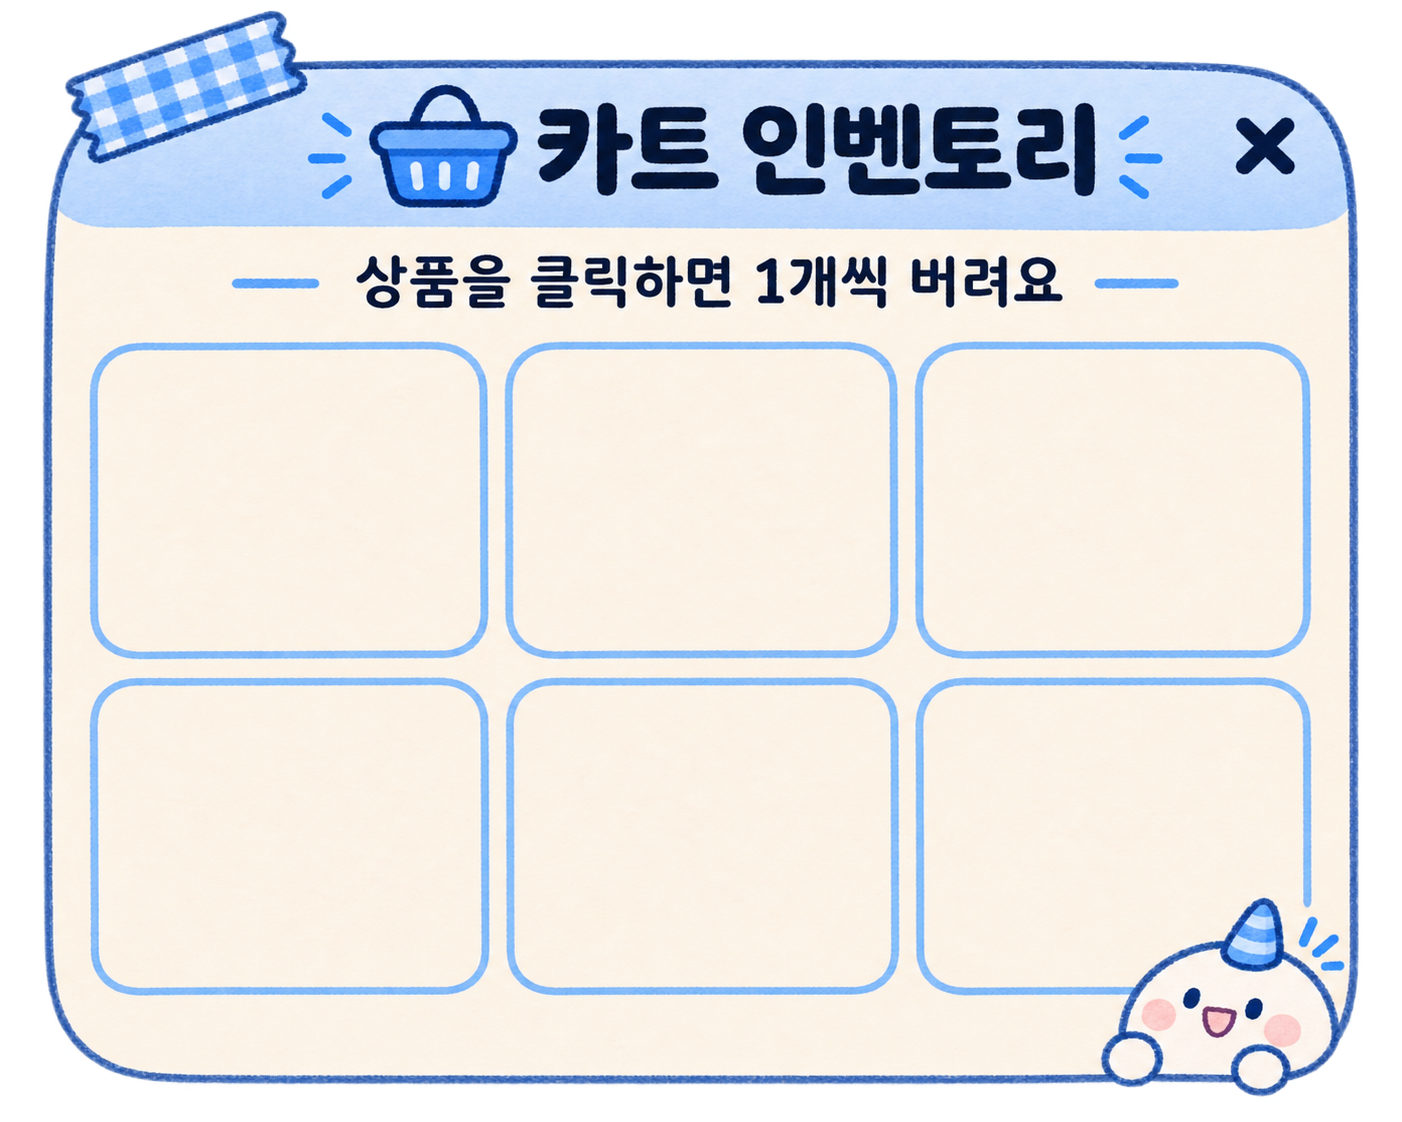
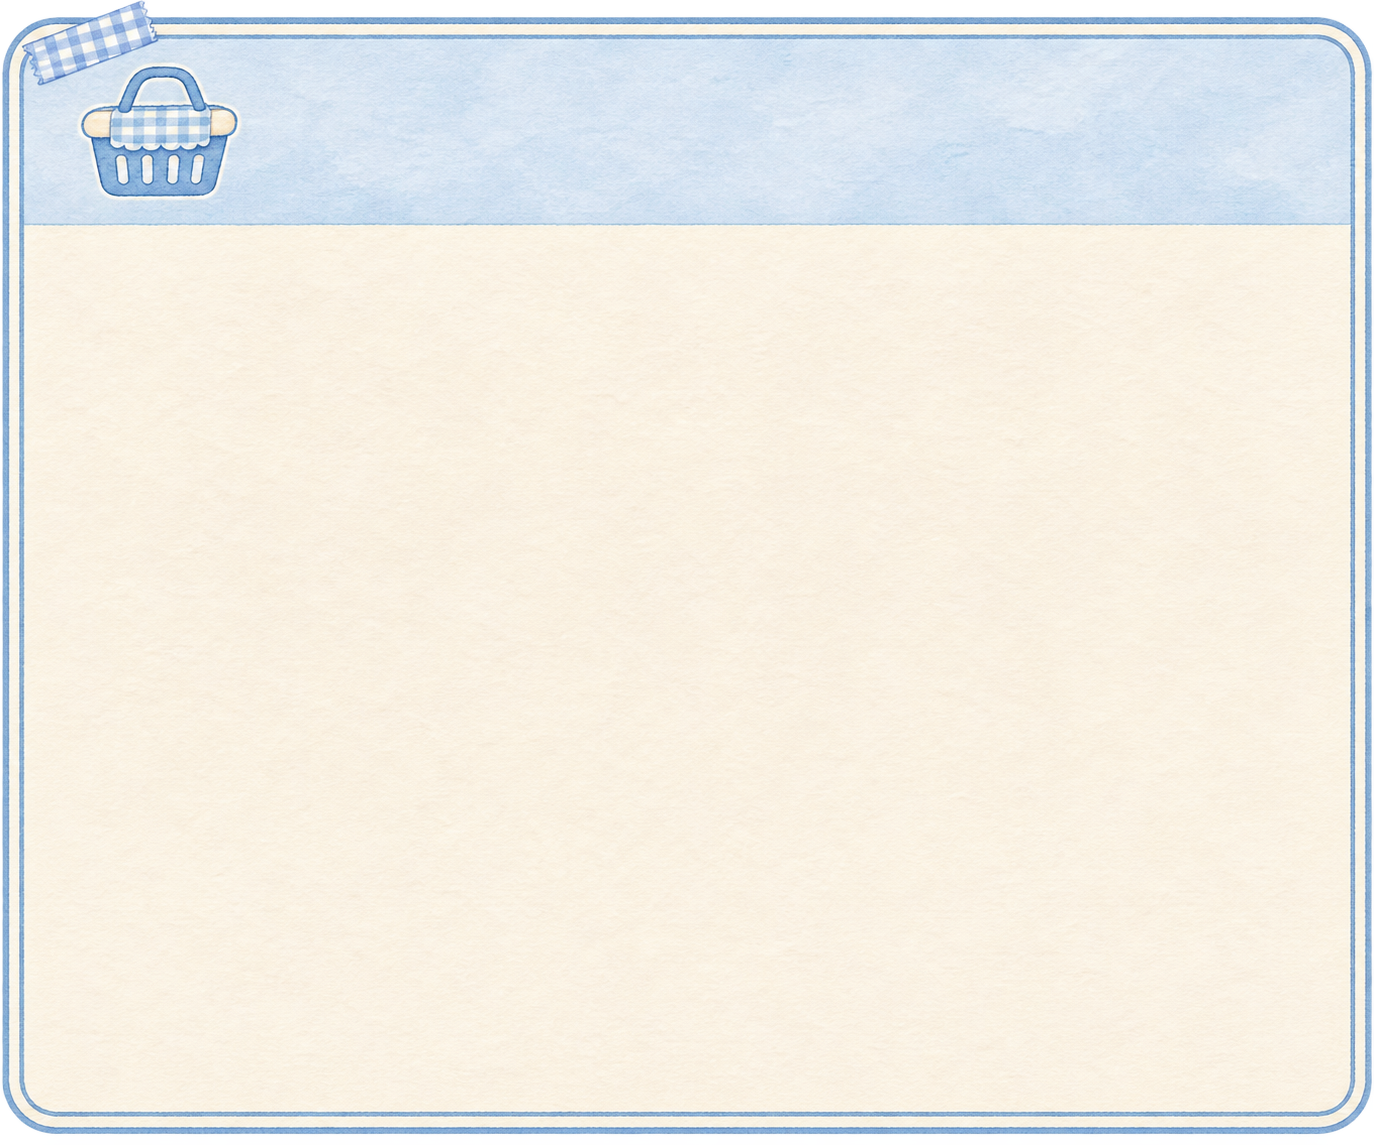
지도 목록 카트 패널 재제작과 공간 활용 및 상품 가독성 개선

Changed region(s): [[0.0, 0.0, 1.0, 0.9982], [0.3362, 0.6239, 0.3668, 0.8734]]

diff --git a/2주차/market_hud.py b/2주차/market_hud.py
@@ -3,8 +3,15 @@ from catalog import CATEGORIES, PRODUCTS
 from market_art import box
 from market_world import SHELVES, WORLD_W, WORLD_H, contains
 
-LIST_RECT = (920, 345, 300, 375)
-CART_RECT = (930, 724, 280, 224)
+MAP_RECT = (872, 12, 396, 260)
+LIST_RECT = (872, 280, 396, 322)
+CART_RECT = (872, 610, 396, 338)
+
+
+def cart_cell(index):
+    x, y, w, h = CART_RECT
+    col, row = index % 3, index // 3
+    return x + 16 + col * 123, y + 94 + row * 108, 118, 102
 
 
 def timer_color(seconds):
@@ -18,12 +25,9 @@ class MarketHUD:
     def slots(self, state):
         ids = list(state.inventory)
         self.offset = max(0, min(self.offset, max(0, ((len(ids) - 1) // 3 - 1) * 3)))
-        x, y, w, h = CART_RECT
         result = []
         for index, pid in enumerate(ids[self.offset:self.offset + 6]):
-            col, row = index % 3, index // 3
-            result.append(((x + w * (.07 + col * .297), y + h * (.32 + row * .30),
-                            w * .275, h * .265), pid))
+            result.append((cart_cell(index), pid))
         return result
 
     def click(self, x, y, state):
@@ -40,38 +44,49 @@ class MarketHUD:
 
     def draw(self, art, state, actor):
         box((860, 0, 420, 960), (224, 232, 226))
-        art.text('도깨비 마트', 1070, 24, 25, center=True)
         art.draw('ui/timer_panel', (16, 16, 280, 94))
         art.text(f'{int(state.remaining)} 초', 182, 66, 30, color=timer_color(state.remaining), center=True)
         # 지도에는 매대 카테고리와 플레이어만 표시한다.
-        art.draw('ui/minimap_panel', (920, 40, 300, 300))
-        art.text('마트 지도', 1085, 83, 19, center=True)
-        mx, my, mw, mh = 945, 111, 250, 176
+        art.draw('ui/minimap_panel', MAP_RECT, trim=True, fit=False)
+        art.text('마트 지도', 1090, 47, 24, center=True)
+        mx, my, mw, mh = 890, 90, 358, 154
         for i, (sx, sy, sw, sh) in enumerate(SHELVES):
             rx, ry = mx + sx / WORLD_W * mw, my + sy / WORLD_H * mh
-            box((rx, ry, max(8, sw / WORLD_W * mw), sh / WORLD_H * mh), (155, 177, 152))
-            # 좁은 지도에서 이름을 세로로 쌓아 겹침을 피한다.
-            for j, char in enumerate(CATEGORIES[i]):
-                art.text(char, rx + 5, ry + 22 + j * 19, 16, center=True)
+            rw, rh = sw / WORLD_W * mw, sh / WORLD_H * mh
+            box((rx, ry, rw, rh), (126, 157, 141))
+            box((rx + 3, ry + 3, rw - 6, rh - 6), (188, 208, 183))
+            art.text(CATEGORIES[i], rx + rw / 2, 86, 17, center=True)
+            for divider in range(1, 4):
+                box((rx + 3, ry + rh * divider / 4, rw - 6, 2), (155, 180, 157))
         px, py = mx + actor.x / WORLD_W * mw, my + actor.y / WORLD_H * mh
+        box((px - 6, py - 6, 12, 12), (255, 255, 255))
         box((px - 4, py - 4, 8, 8), (30, 100, 221))
-        art.text('파랑: 플레이어', 1070, 318, 15, center=True)
-        art.draw('ui/shopping_list_panel', LIST_RECT)
+        art.text('파랑: 내 위치', 1178, 249, 15, center=True)
+        art.draw('ui/shopping_list_panel', LIST_RECT, trim=True, fit=False)
+        art.text('장보기 목록', 1090, 318, 25, center=True)
         x, y, w, h = LIST_RECT
         for index, (pid, count) in enumerate(state.required.items()):
             product = PRODUCTS[pid]
-            cy = y + h * (.365 + index * .103)
-            art.draw('icons/' + product.icon, (x + 32, cy - 17, 34, 34), trim=True)
-            art.lines(product.name, x + 152, cy, 152, 15)
-            art.text(f'{count}개', x + 255, cy, 16, center=True)
-        art.draw('ui/cart_inventory_panel', CART_RECT)
+            cy = y + 95 + index * 47
+            art.draw('icons/' + product.icon, (x + 20, cy - 21, 44, 42), trim=True)
+            art.lines(product.name, x + 208, cy, 238, 21)
+            art.text(f'{count}개', x + 357, cy, 21, center=True)
+            if index < len(state.required) - 1:
+                box((x + 20, cy + 24, w - 40, 1), (180, 205, 222))
+        art.draw('ui/cart_inventory_panel', CART_RECT, trim=True, fit=False)
+        art.text('카트 인벤토리', 1090, 648, 25, center=True)
+        art.text('상품 클릭: 1개 버리기', 1070, 685, 17, center=True)
+        for index in range(6):
+            sx, sy, sw, sh = cart_cell(index)
+            box((sx, sy, sw, sh), (159, 191, 215))
+            box((sx + 2, sy + 2, sw - 4, sh - 4), (253, 249, 237))
         for (sx, sy, sw, sh), pid in self.slots(state):
             product = PRODUCTS[pid]
-            art.draw('icons/' + product.icon, (sx + 17, sy + 2, sw - 34, 31), trim=True)
-            art.lines(product.name, sx + sw / 2, sy + sh - 13, sw - 7, 11)
-            box((sx + sw - 28, sy + 20, 25, 17), (66, 116, 185))
-            art.text(f'x{state.inventory[pid]}', sx + sw - 16, sy + 28, 11, (255, 255, 255), True)
+            art.draw('icons/' + product.icon, (sx + 22, sy + 5, 68, 58), trim=True)
+            art.lines(product.name, sx + sw / 2, sy + 80, sw - 12, 17)
+            box((sx + sw - 38, sy + 43, 34, 22), (66, 116, 185))
+            art.text(f'x{state.inventory[pid]}', sx + sw - 21, sy + 54, 16, (255, 255, 255), True)
         if not state.inventory:
-            art.text('카트가 비어 있습니다', 1070, 839, 14, center=True)
+            art.text('카트가 비어 있습니다', 1070, 932, 17, center=True)
         if len(state.inventory) > 6:
-            art.text('카트 위에서 휠: 다른 상품 보기', 1070, 952, 12, center=True)
+            art.text('마우스 휠: 다른 상품 보기', 1070, 932, 17, center=True)
